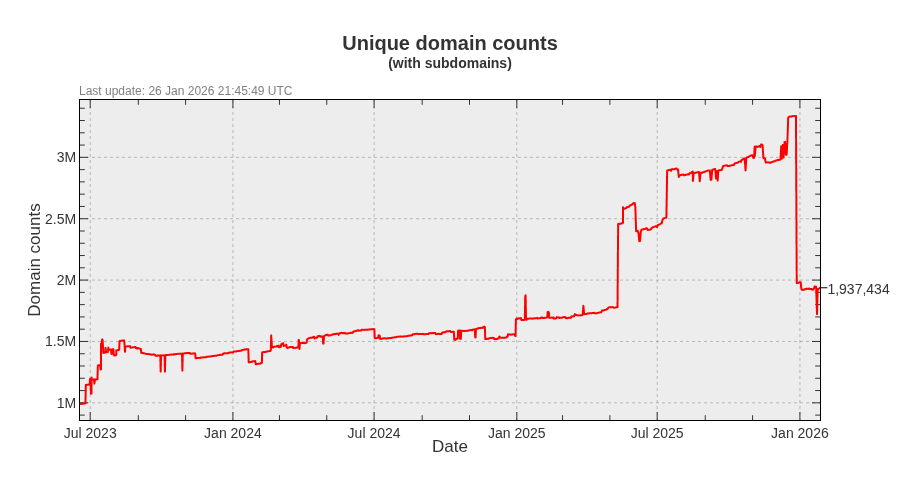
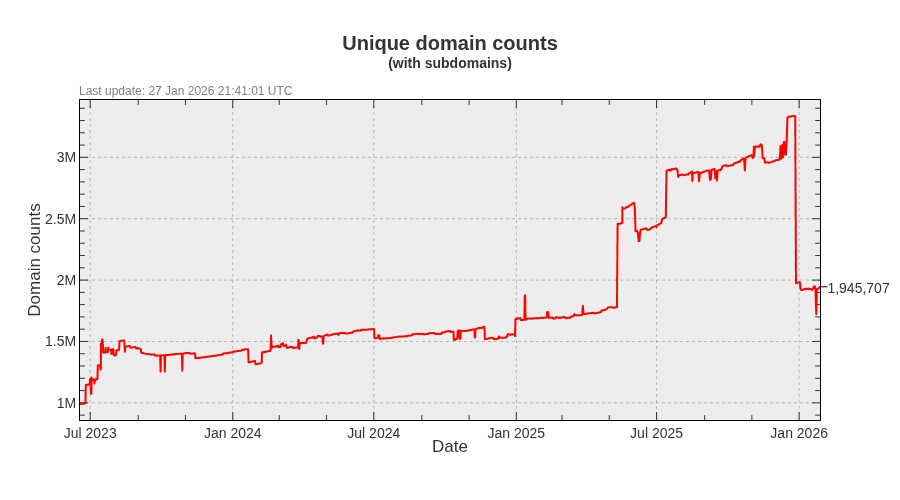
Update pages

diff --git a/README.md b/README.md
@@ -3,22 +3,22 @@ A blocklist file for blocking ads, trackers and malware domains.
 
[1 lines of base64/hex data omitted]
 
-- Unique domains: 1,937,434
-- Without subdomains: 1,291,156
-- Last update: 26 Jan 2026 21:45:49 UTC
-- Version: 2026.01.26.01
+- Unique domains: 1,945,707
+- Without subdomains: 1,299,508
+- Last update: 27 Jan 2026 21:41:01 UTC
+- Version: 2026.01.27.01
 
 
 ### Downloads:
 
 | Format             | Domain count      | Download Link |
 |:------------------ | -----------------:|:-------------:|
-| *Adblock Plus*     | 1,291,156 | [Download](https://dl.cenk.app/bad-hosts/bad-hosts-abp) |
-| *Wildcard domains* | 1,291,156 | [Download](https://dl.cenk.app/bad-hosts/bad-hosts-wildcard) |
-| *dnsmasq*          | 1,291,156 | [Download](https://dl.cenk.app/bad-hosts/bad-hosts-dnsmasq) |
-| *hosts*            | 1,937,434 | [Download](https://dl.cenk.app/bad-hosts/hosts) |
-| *hosts (ipv6)*     | 1,937,434 | [Download](https://dl.cenk.app/bad-hosts/hosts-ipv6) |
-| *Plain domains*    | 1,937,434 | [Download](https://dl.cenk.app/bad-hosts/bad-hosts-domains) |
+| *Adblock Plus*     | 1,299,508 | [Download](https://dl.cenk.app/bad-hosts/bad-hosts-abp) |
+| *Wildcard domains* | 1,299,508 | [Download](https://dl.cenk.app/bad-hosts/bad-hosts-wildcard) |
+| *dnsmasq*          | 1,299,508 | [Download](https://dl.cenk.app/bad-hosts/bad-hosts-dnsmasq) |
+| *hosts*            | 1,945,707 | [Download](https://dl.cenk.app/bad-hosts/hosts) |
+| *hosts (ipv6)*     | 1,945,707 | [Download](https://dl.cenk.app/bad-hosts/hosts-ipv6) |
+| *Plain domains*    | 1,945,707 | [Download](https://dl.cenk.app/bad-hosts/bad-hosts-domains) |
 
 ### Domain count history
 #### With subdomains
